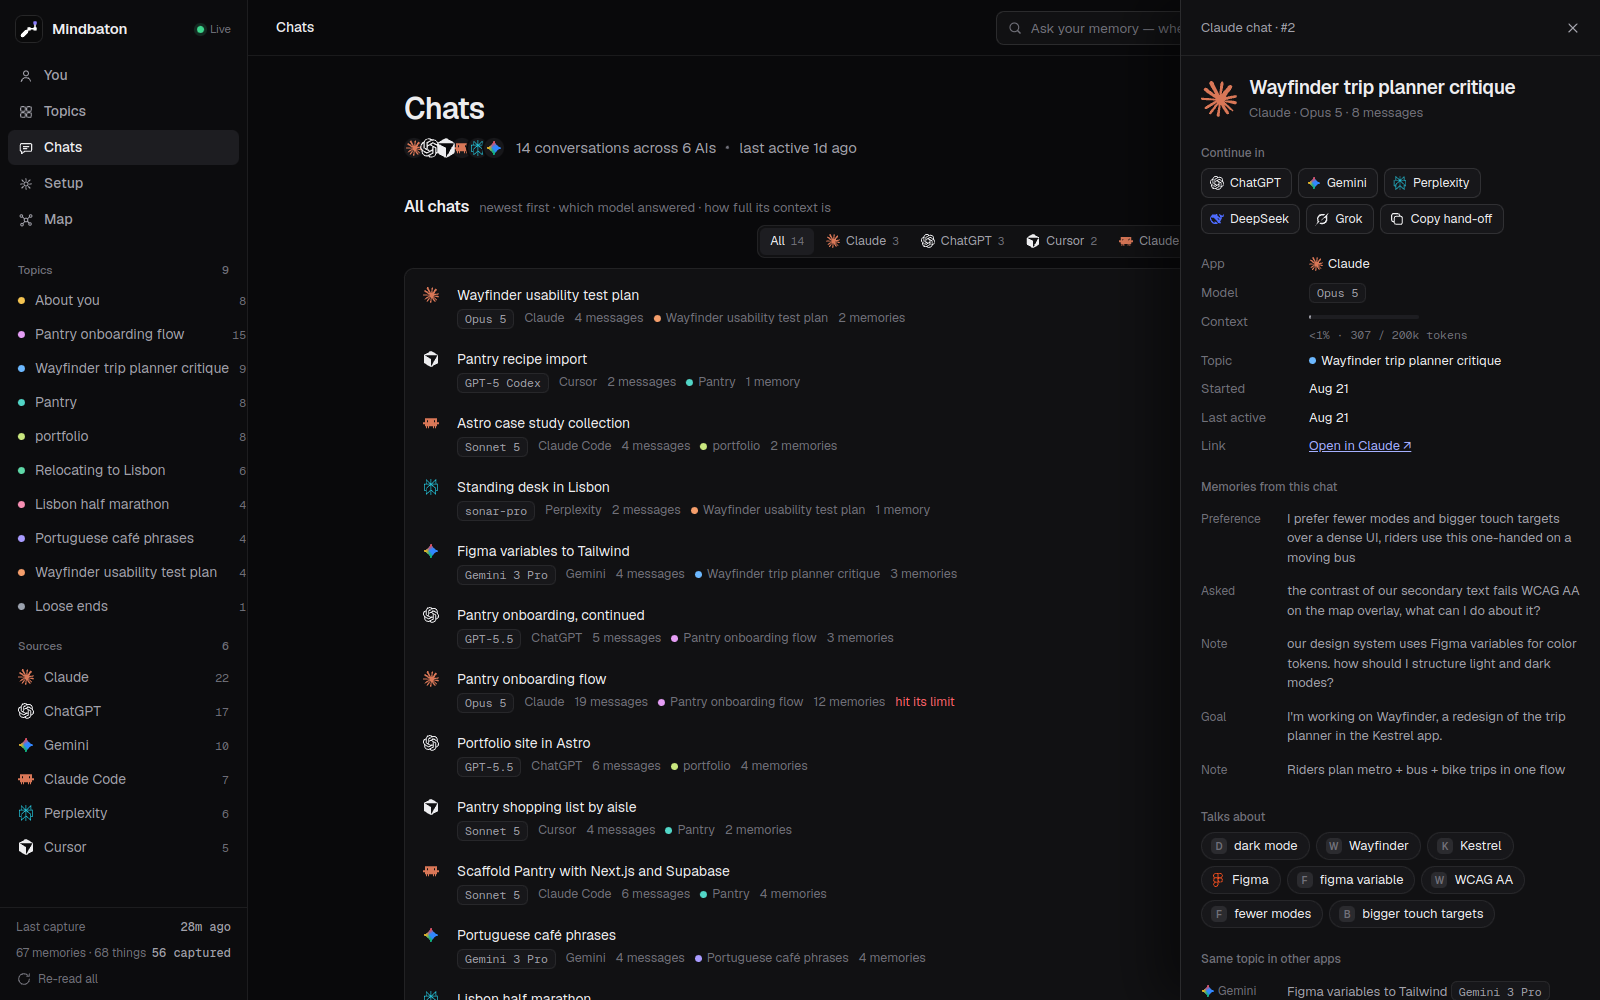
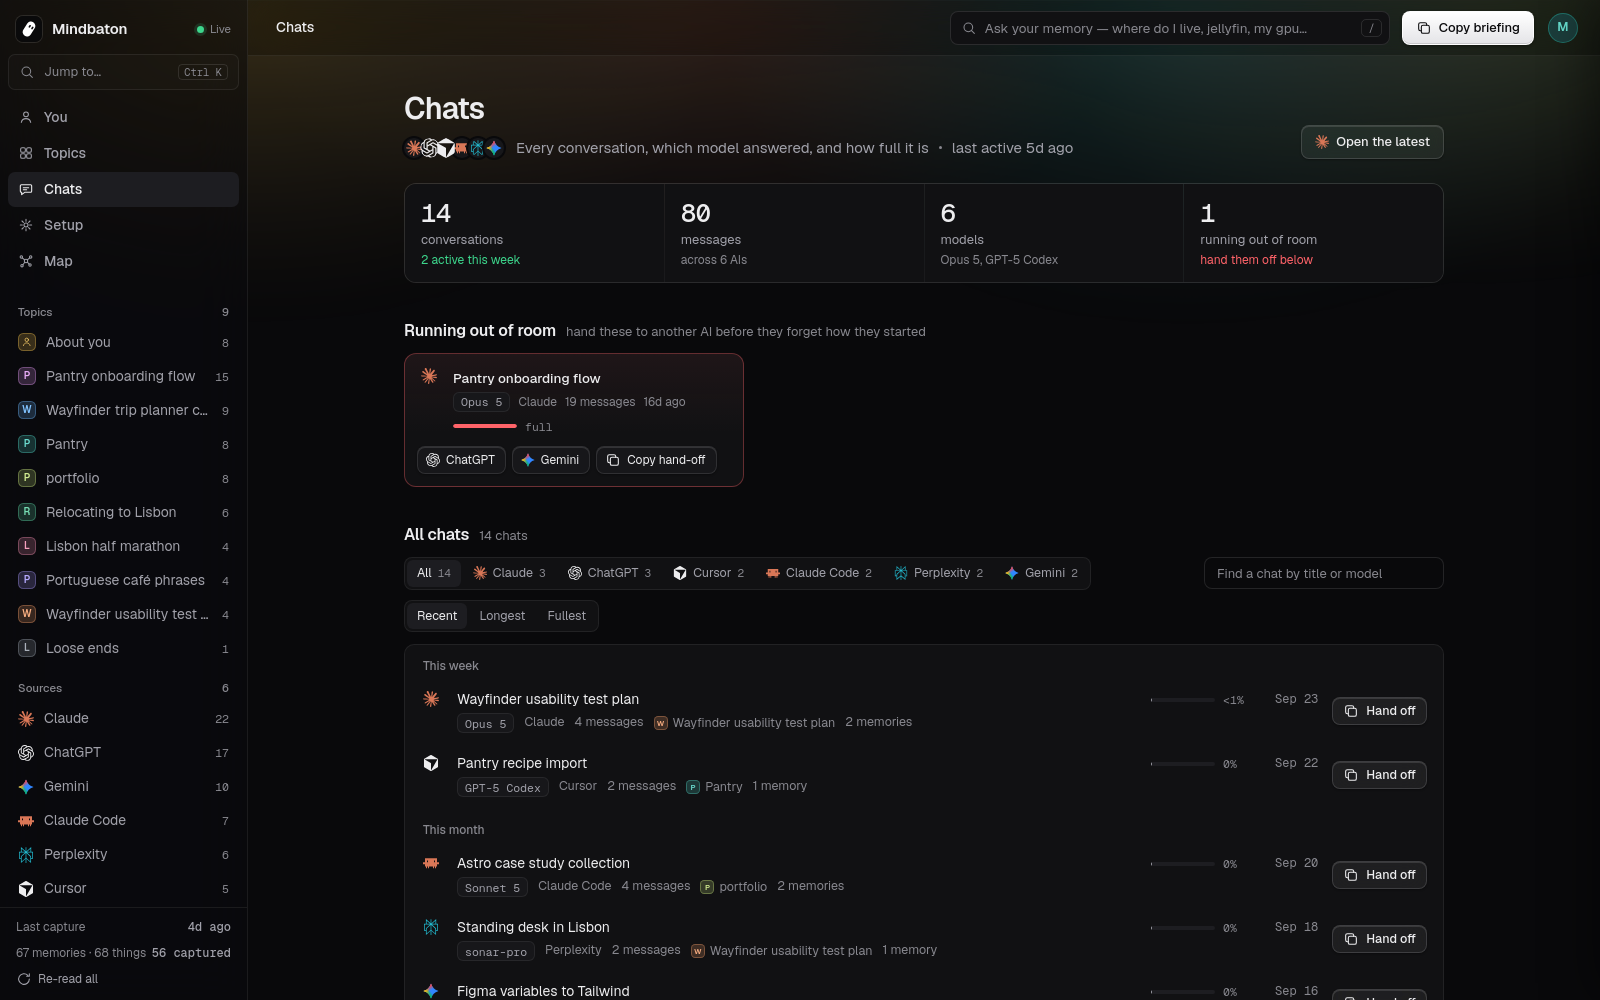
One search: drop the sidebar Jump box (Ctrl/⌘K still opens the palette)
Claude-Session: https://claude.ai/code/session_01W8ZYJ8XEJYWFQKg6BrPRuf

diff --git a/index.html b/index.html
@@ -852,7 +852,6 @@ FINISH: unreviewed and undocumented is unfinished; this build ends with the fini
       <b>Mindbaton</b>
       <span class="live" id="live"><span class="dot"></span><span>—</span></span>
     </div>
-    <button class="jump" id="jump" type="button"><svg class="i" viewBox="0 0 24 24"><circle cx="11" cy="11" r="6.5"/><path d="m20 20-4.2-4.2"/></svg>Jump to…<kbd id="jump-k">Ctrl K</kbd></button>
     <nav class="nav" aria-label="Views">
       <button data-view="overview" aria-current="page"><svg class="i" viewBox="0 0 24 24"><circle cx="12" cy="8" r="3.6"/><path d="M5 20c.8-3.6 3.6-5.6 7-5.6s6.2 2 7 5.6"/></svg>You<kbd>1</kbd></button>
       <button data-view="topics"><svg class="i" viewBox="0 0 24 24"><rect x="4" y="4" width="7" height="7" rx="2"/><rect x="13" y="4" width="7" height="7" rx="2"/><rect x="4" y="13" width="7" height="7" rx="2"/><rect x="13" y="13" width="7" height="7" rx="2"/></svg>Topics<kbd>2</kbd></button>
@@ -3356,8 +3355,6 @@ async function hideToast() {
 }
 $("#toast").addEventListener("click", ev => { if (ev.target.closest(".toast-act") && toastAct) { const f = toastAct; clearTimeout(toastTimer); hideToast(); f(); } });
 
-$("#jump").onclick = openPalette;
-$("#jump-k").textContent = /Mac|iPhone|iPad/.test(navigator.platform) ? "⌘ K" : "Ctrl K";
 addEventListener("keydown", e => { if ((e.metaKey || e.ctrlKey) && !e.altKey && e.key.toLowerCase() === "k" && ACCT) { e.preventDefault(); $("#palette").open ? $("#palette").close() : openPalette(); } });
 $("#pal-q").addEventListener("input", () => { palAt = 0; palRender(); });
 $("#pal-q").addEventListener("keydown", e => {
